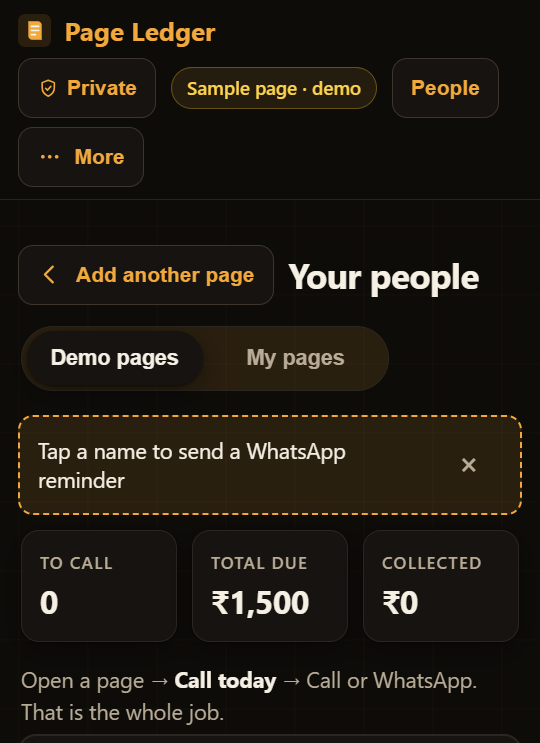
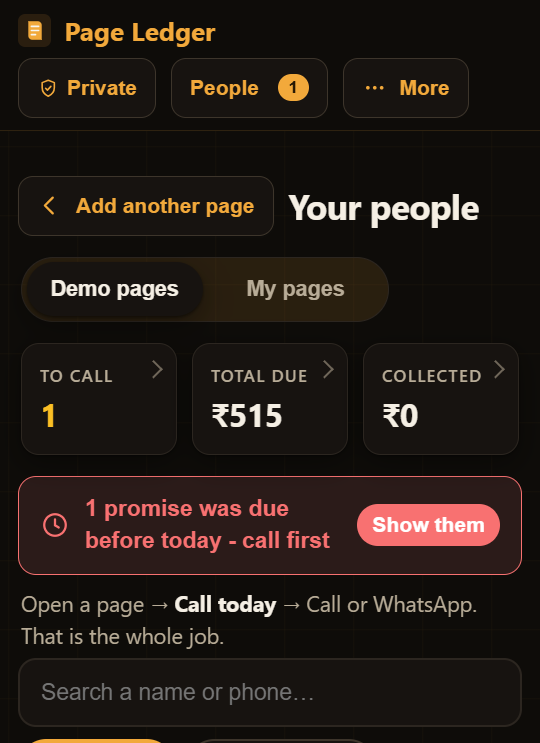
CRM dashboard: stats are filters, scannable people cards
- Stat cards (To call / Total due / Collected) are now real buttons that apply the matching people filter; tap again to release. aria-pressed + keyboard support.

- Person cards get initial discs (amber for today-calls), a chevron tap cue, hover state, and red strips for overdue follow-ups (amber stays due-today).

- Filter chips show live counts.

- Recaptured 09-crm, 10-person-panel, m05-crm, m06-panel with a properly confirmed demo follow-up so the CRM shows its full story.

diff --git a/js/app.js b/js/app.js
@@ -1226,19 +1226,27 @@ async function handleAsk(kind) {
 
 function summaryChips(data) {
   const t = data.totals;
-  const card = (label, val, cls = "") =>
-    `<div class="stat${cls ? ` stat--${cls}` : ""}">
+  // the stats ARE the filters: tap "To call" to see only today's calls, tap
+  // again to release the filter. aria-pressed keeps it honest for keyboards.
+  const card = (label, val, cls = "", filter = "") =>
+    `<button class="stat${cls ? ` stat--${cls}` : ""}${filter ? " stat--tap" : ""}" type="button"${
+      filter ? ` data-filter="${filter}" aria-pressed="${peopleFilter.chip === filter}"` : ""
+    }>
       <span class="stat__label">${label}</span>
       <strong class="stat__value">${val}</strong>
-    </div>`;
+    </button>`;
   return [
-    card("To call", t.toCall, t.toCall > 0 ? "due" : ""),
-    card("Total due", `₹${ppl.fmtRupees(t.due)}`),
-    card("Collected", `₹${ppl.fmtRupees(t.paid)}`),
+    card("To call", t.toCall, t.toCall > 0 ? "due" : "", "today"),
+    card("Total due", `₹${ppl.fmtRupees(t.due)}`, "", "owes"),
+    card("Collected", `₹${ppl.fmtRupees(t.paid)}`, "", "paid"),
   ].join("");
 }
 
 function personCard(p, todayList) {
+  // one-letter disc: amber when this person is a today-call, quiet otherwise
+  const initial = [...(p.nameMissing ? "?" : String(p.name).trim())][0]?.toUpperCase() || "?";
+  const ava = `<span class="pcard__ava${p.toCall ? " pcard__ava--due" : ""}" aria-hidden="true">${escapeHTML(initial)}</span>`;
+
   const money = [
     p.due > 0 ? `<span class="money money--due">due ₹${ppl.fmtRupees(p.due)}</span>` : "",
     p.paid > 0 ? `<span class="money money--in">in ₹${ppl.fmtRupees(p.paid)}</span>` : "",
@@ -1257,7 +1265,9 @@ function personCard(p, todayList) {
       f.rowId
         ? `<button class="pcard__done" data-page-id="${escapeAttr(f.pageId)}" data-row-id="${escapeAttr(f.rowId)}" type="button" aria-label="Mark follow-up done">Done</button>`
         : "";
-    follow = `<div class="pcard__follow${p.toCall ? " pcard__follow--due" : ""}">
+    // red = the promise already slipped; amber = due today
+    const tone = overdue ? " pcard__follow--over" : p.toCall ? " pcard__follow--due" : "";
+    follow = `<div class="pcard__follow${tone}">
         <div class="pcard__follow-text">Follow-up · ${escapeHTML(when)}${f.text ? ` · ${escapeHTML(f.text)}` : ""} ${dueTag}</div>
         ${doneBtn}
       </div>`;
@@ -1268,6 +1278,7 @@ function personCard(p, todayList) {
 
   return `<article class="pcard${p.toCall ? " pcard--due" : ""}" role="listitem" data-key="${escapeAttr(p.key)}">
     <div class="pcard__line" role="button" tabindex="0" aria-haspopup="dialog" aria-label="Open ${escapeAttr(p.name)} - history, call and message">
+      ${ava}
       <div class="pcard__who">
         <h3 class="pcard__name">${p.nameMissing ? `Name missing <span class="chip chip--amber">check the page</span>` : escapeHTML(p.name)}</h3>
         <p class="pcard__meta">${contact}${seen ? ` · ${escapeHTML(seen)}` : ""}</p>
@@ -1336,6 +1347,19 @@ function renderPeople(data, pagesCount, fromFilter = false) {
   $("#people-list").innerHTML = view.rest.map((p) => personCard(p, false)).join("");
   $("#people-none").hidden = view.any || !hasPeople;
   $("#people-summary").innerHTML = hasPeople ? summaryChips(data) : "";
+  // chip counts: each filter shows what's behind it before you tap
+  if (hasPeople) {
+    const counts = {
+      all: data.all.length,
+      owes: data.all.filter((p) => p.due > 0).length,
+      today: data.totals.toCall,
+      paid: data.all.filter((p) => p.paid > 0).length,
+    };
+    [...document.querySelectorAll(".people-chip")].forEach((b) => {
+      const base = b.dataset.label ?? (b.dataset.label = b.textContent.trim());
+      b.innerHTML = `${escapeHTML(base)} <span class="pill__n">${counts[b.dataset.chip] ?? 0}</span>`;
+    });
+  }
   if (hasPeople && !fromFilter) animateCounts($("#people-summary"));
   const sk = $("#people-skipped");
   if (data.skipped) {
@@ -2074,6 +2098,14 @@ function wire() {
       );
       renderPeople(peopleCache.data, peopleCache.pagesCount ?? 0, true);
     };
+  });
+  // the stat cards ARE filters: tap to apply, tap again to release
+  $("#people-summary").addEventListener("click", (e) => {
+    const b = e.target.closest(".stat--tap");
+    if (!b) return;
+    const active = b.getAttribute("aria-pressed") === "true";
+    const target = active ? "all" : b.dataset.filter;
+    document.querySelector(`.people-chip[data-chip="${target}"]`)?.click();
   });
 
   /* ------------- Section 3: ask with your own words ---------------------- */

diff --git a/css/styles.css b/css/styles.css
@@ -2754,3 +2754,89 @@ body.story-open .coach__tip { display: none; }
 .sheet__panel { box-shadow: 0 -18px 60px rgb(0 0 0 / 0.55); }
 
 ::selection { background: rgb(242 169 59 / 0.35); }
+
+/* ============================================================
+   CRM dashboard polish (Oct 28): stats are filters, people are scannable
+   ============================================================ */
+/* stat cards: bigger numbers, tap-to-filter with an honest pressed state */
+.stat {
+  padding: 11px 14px 10px;
+  border-radius: var(--radius);
+}
+.stat__value { font-size: 22px; letter-spacing: -0.01em; }
+.stat--due .stat__value { color: var(--amber); }
+.stat--tap {
+  cursor: pointer;
+  text-align: left;
+  font: inherit;
+  color: inherit;
+  position: relative;
+  transition: border-color 0.15s ease, transform 0.12s ease, box-shadow 0.15s ease;
+}
+.stat--tap::after {
+  content: "";
+  position: absolute;
+  right: 11px;
+  top: 13px;
+  width: 7px;
+  height: 7px;
+  border-right: 1.5px solid var(--ink-faint);
+  border-bottom: 1.5px solid var(--ink-faint);
+  transform: rotate(-45deg);
+  opacity: 0.75;
+}
+.stat--tap:hover { border-color: var(--line-strong); }
+.stat--tap:hover::after { border-color: var(--accent); opacity: 1; }
+.stat--tap:active { transform: translateY(1px); }
+.stat--tap[aria-pressed="true"] {
+  border-color: var(--accent);
+  box-shadow: 0 0 0 3px rgb(242 169 59 / 0.16);
+}
+.stat--tap[aria-pressed="true"]::after { border-color: var(--accent); opacity: 1; }
+.stat--tap:focus-visible { outline: none; box-shadow: var(--focus); }
+
+/* filter chips carry their counts */
+.pill__n {
+  color: var(--ink-faint);
+  font-size: 12px;
+  font-variant-numeric: tabular-nums;
+  margin-left: 3px;
+}
+.pill[aria-pressed="true"] .pill__n { color: inherit; opacity: 0.72; }
+
+/* people cards: initial disc + a visible "this opens" cue */
+.pcard__ava {
+  flex: none;
+  width: 40px;
+  height: 40px;
+  border-radius: 999px;
+  display: grid;
+  place-items: center;
+  font-weight: 700;
+  font-size: 16px;
+  color: var(--ink-soft);
+  background: rgb(255 255 255 / 0.045);
+  border: 1px solid var(--line-strong);
+}
+.pcard__ava--due {
+  color: var(--accent-ink);
+  background: var(--accent);
+  border-color: var(--accent);
+}
+.pcard__line { cursor: pointer; }
+.pcard__line::after {
+  content: "›";
+  align-self: center;
+  color: var(--ink-faint);
+  font-size: 19px;
+  line-height: 1;
+  padding-left: 2px;
+}
+.pcard:hover .pcard__line::after { color: var(--accent); }
+.pcard:hover { border-color: var(--line-strong); }
+.pcard__line:focus-visible { outline: none; box-shadow: var(--focus); border-radius: var(--radius-sm); }
+
+/* overdue follow-ups read red: the promise already slipped */
+.pcard__follow--over { background: var(--red-bg); }
+.pcard__follow--over .pcard__follow-text { color: var(--red); }
+.pcard__follow--over .fc--amber { color: var(--red); }
